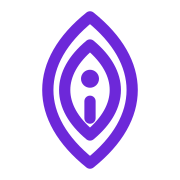
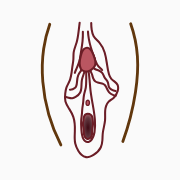
feat(web): replace the M3 vesica with an anatomical vulva mark
The M3 almond read as an abstract shape with a candle or the letter i
in the middle. The new mark is derived from "Female vulva.svg" by
T. Kebert (Wikimedia Commons, CC BY-SA 4.0), modified: cropped to the
vulva, clitoral glans enlarged, vaginal opening shaded with a radial
gradient, recoloured in oklch, strokes widened.

BrandMark.svelte draws a simplified cut below 40 px (labia, enlarged
glans, shaded opening) and a light and a dark colour set; each
instance gets its own gradient id from $props.id(). The standalone
SVG files switch colours with prefers-color-scheme. The 32 px favicon
uses the cut, the Apple touch icon the full drawing.

Every derived file, and the visual baselines that show the mark, is
CC BY-SA 4.0 with the attribution in REUSE.toml. ADR-0017 records the
decision and supersedes the M3 bullet of ADR-0015.

Changed region(s): [[0.2222, 0.0556, 0.7778, 0.9444]]

diff --git a/web/src/lib/components/BrandMark.svelte b/web/src/lib/components/BrandMark.svelte
@@ -1,6 +1,12 @@
 <!--
+SPDX-FileCopyrightText: 2024 T. Kebert
 SPDX-FileCopyrightText: 2026 lusoris <lusoris@pm.me>
-SPDX-License-Identifier: EUPL-1.2
+SPDX-License-Identifier: CC-BY-SA-4.0
+
+Derived from "Female vulva.svg" by T. Kebert, Wikimedia Commons, CC BY-SA 4.0, modified
+(https://commons.wikimedia.org/wiki/File:Female_vulva.svg): cropped to the vulva,
+clitoral glans enlarged, vaginal opening shaded, recoloured, strokes widened.
+Below 40 px it draws a simplified cut: labia, enlarged glans and shaded opening.
 -->
 <script lang="ts">
 	interface Props {
@@ -13,30 +19,206 @@ SPDX-License-Identifier: EUPL-1.2
 	}
 
 	const { size = 28, class: className = '', label }: Props = $props();
+	const uid = $props.id();
+	const small = $derived(size < 40);
 </script>
 
 <svg
 	xmlns="http://www.w3.org/2000/svg"
 	width={size}
 	height={size}
-	viewBox="0 0 32 32"
-	fill="none"
-	stroke="currentColor"
-	stroke-width="2"
-	stroke-linecap="round"
-	stroke-linejoin="round"
-	class="shrink-0 {className}"
+	viewBox="50.25 37.1 56 56"
+	class="brand-mark shrink-0 {className}"
+	data-cut={small ? '' : undefined}
 	role={label ? 'img' : undefined}
 	aria-label={label}
 	aria-hidden={label ? undefined : 'true'}
 >
-	<!-- M3: Pure Geometry (Vesica Piscis / Almond) -->
-	<!-- Outer vesica arc -->
-	<path d="M 16 3 C 6 11 6 21 16 29 C 26 21 26 11 16 3 Z" />
-	<!-- Inner concentric almond aperture -->
-	<path d="M 16 8 C 10 13 10 19 16 24 C 22 19 22 13 16 8 Z" />
-	<!-- Center focal jewel -->
-	<circle cx="16" cy="14" r="1.6" fill="currentColor" stroke="none" />
-	<!-- Lower focal ray -->
-	<path d="M 16 18 L 16 21" />
+	{#if small}
+		<defs>
+			<radialGradient id="{uid}-op" cx="50%" cy="55%" r="65%">
+				<stop offset="0" class="s0" />
+				<stop offset="0.6" class="s1" />
+				<stop offset="1" class="s2" />
+			</radialGradient>
+		</defs>
+		<path
+			class="ol c"
+			transform="translate(67.168345,-99.970111)"
+			d="M -4.5677688,139.48612 C -5.668703,142.58415 -6.4633091,145.79096 -6.9362415,149.0446 -7.5501871,153.26838 -7.6211574,157.56336 -7.2745946,161.81743 -6.5773151,170.37656 -4.1766043,178.79351 -0.25376484,186.43263"
+		/>
+		<path
+			class="ol c"
+			transform="translate(67.168345,-99.970111)"
+			d="M 26.899082,139.31695 C 28.345097,143.40073 29.230049,147.68276 29.521319,152.00519 29.835204,156.66323 29.46184,161.34672 28.760024,165.96227 27.769391,172.47725 26.123038,178.89235 23.853904,185.07922"
+		/>
+		<path
+			class="ln c"
+			transform="translate(67.168345,-99.970111)"
+			d="M 7.0622864,138.91496 C 6.9284045,140.00284 6.7956497,141.09086 6.6640225,142.17901 6.4833199,143.67287 6.3030081,145.17552 5.8734216,146.61764 5.4991673,147.87401 4.9364242,149.08278 4.7477362,150.38006 4.6119391,151.3137 4.674703,152.2642 4.6109394,153.20551 4.5495941,154.11112 4.371471,155.00411 4.2388847,155.90206 3.9525267,157.84143 3.8680556,159.84934 3.0922068,161.64968 2.738691,162.47001 2.2479665,163.2291 1.9414968,164.06814 1.6562572,164.84905 1.5377227,165.68003 1.4484425,166.5066 1.3384174,167.52523 1.2720318,168.57089 1.5350445,169.56111 1.8111195,170.60051 2.4303379,171.50864 3.0039851,172.41831 3.6241347,173.40172 4.2058417,174.4193 4.5852155,175.51828 5.2192203,177.35488 5.2626142,179.33981 5.1878176,181.28132 5.1283997,182.82365 5.0005785,184.38971 5.3466974,185.89387 5.5737021,186.88039 6.0001489,187.8127 6.5185349,188.68219 6.8654011,189.26399 7.2588847,189.82591 7.7610463,190.28049 8.263208,190.73507 8.8831753,191.07895 9.5546274,191.16818 10.065068,191.23601 10.587826,191.15503 11.075168,190.98875 11.56251,190.82248 12.017472,190.57295 12.45342,190.29891 13.62919,189.5598 14.714479,188.59457 15.296283,187.33353 15.689287,186.48171 15.834055,185.53653 15.899862,184.60073 15.965669,183.66493 15.956949,182.72375 16.063288,181.79169 16.250703,180.14899 16.792668,178.55877 16.929852,176.91111 17.033788,175.66278 16.90318,174.40491 16.985232,173.15495 17.026258,172.52997 17.121305,171.90522 17.321194,171.31165 17.521083,170.71808 17.828916,170.15513 18.261674,169.70236 18.841982,169.09521 19.617377,168.71141 20.241519,168.14942 21.012913,167.45484 21.526512,166.50679 21.821618,165.5116 21.941224,165.10825 22.027528,164.69219 22.034639,164.27154 22.04175,163.85089 21.967142,163.42422 21.778628,163.04811 21.527402,162.54688 21.092277,162.1646 20.647349,161.82345 20.202422,161.4823 19.731807,161.16396 19.36666,160.73851 18.927825,160.2272 18.665581,159.5886 18.463735,158.94574 18.028534,157.55966 17.842929,156.10992 17.636308,154.67189 17.433193,153.25826 17.206647,151.84193 16.783254,150.47799 16.359861,149.11404 15.731052,147.7964 14.796535,146.71645 14.042455,145.84502 13.092464,145.12881 12.511394,144.13363 12.077973,143.39132 11.877123,142.53669 11.74806,141.68686 11.612527,140.79443 11.549853,139.89094 11.560867,138.98834"
+		/>
+		<path
+			class="op c"
+			transform="translate(67.168345,-99.970111)"
+			d="M 8.5810122,176.2458 C 8.5661477,176.45219 8.5780337,176.66027 8.5535382,176.86574 8.5271359,177.0872 8.4590116,177.30131 8.4139676,177.51974 8.3311912,177.92115 8.3268986,178.3356 8.3629576,178.74387 8.408745,179.26228 8.5187052,179.77294 8.5793545,180.28983 8.6606813,180.98294 8.6531928,181.68583 8.7684815,182.37411 8.8255277,182.71468 8.914345,183.0548 9.0861111,183.35436 9.2578772,183.65392 9.5200881,183.91164 9.845978,184.02582 10.203779,184.15118 10.613384,184.09049 10.940992,183.89968 11.2686,183.70886 11.516604,183.39724 11.667679,183.04952 11.926164,182.45457 11.908926,181.78271 11.935026,181.13456 11.955252,180.63228 12.004159,180.13116 12.081571,179.63447 12.142425,179.24402 12.221001,178.85524 12.244141,178.46075 12.271311,177.99757 12.221669,177.53383 12.182991,177.07146 12.14867,176.66118 12.122661,176.24824 12.03126,175.8468 11.980597,175.62428 11.909531,175.40524 11.803,175.20342 11.69647,175.0016 11.553452,174.81701 11.372807,174.67755 11.041107,174.42148 10.605162,174.33434 10.186194,174.34226 9.9015227,174.34764 9.6075847,174.39727 9.3717912,174.55686 9.1445067,174.71069 8.9919299,174.95236 8.8735016,175.19994 8.7163761,175.52842 8.6071696,175.88262 8.5810122,176.2458 Z"
+			fill="url(#{uid}-op)"
+		/>
+		<g transform="translate(77.3 53.300000000000004) scale(2.4) translate(-77.3 -53.7)">
+			<path
+				class="gl c"
+				transform="translate(67.168345,-99.970111)"
+				d="M 8.7007852,155.72423 C 8.5228997,155.3155 8.4278158,154.87094 8.4229462,154.4252 8.4168729,153.86929 8.5489182,153.32209 8.6844638,152.78292 8.7493356,152.52488 8.8155741,152.26596 8.9187864,152.02072 9.0219987,151.77548 9.1643273,151.54264 9.3623056,151.36488 9.5501631,151.1962 9.7954329,151.07924 10.047695,151.08953 10.275761,151.09883 10.490883,151.2112 10.65886,151.36575 10.826837,151.52029 10.952478,151.71506 11.063368,151.91457 11.315068,152.36742 11.49979,152.85489 11.649253,153.35096 11.736415,153.64025 11.812264,153.93544 11.829399,154.23709 11.846534,154.53874 11.802087,154.84938 11.660083,155.11607 11.506252,155.40497 11.249236,155.62448 10.982963,155.81481 10.776538,155.96236 10.557886,156.09829 10.316132,156.17535 10.034218,156.26521 9.7260204,156.2708 9.4410354,156.19121 9.1560505,156.11162 8.8953428,155.94716 8.7007822,155.72423 Z"
+			/>
+		</g>
+	{:else}
+		<defs>
+			<radialGradient id="{uid}-op" cx="50%" cy="55%" r="65%">
+				<stop offset="0" class="s0" />
+				<stop offset="0.6" class="s1" />
+				<stop offset="1" class="s2" />
+			</radialGradient>
+		</defs>
+		<path
+			class="ol"
+			transform="translate(67.168345,-99.970111)"
+			d="M -4.5677688,139.48612 C -5.668703,142.58415 -6.4633091,145.79096 -6.9362415,149.0446 -7.5501871,153.26838 -7.6211574,157.56336 -7.2745946,161.81743 -6.5773151,170.37656 -4.1766043,178.79351 -0.25376484,186.43263"
+		/>
+		<path
+			class="ol"
+			transform="translate(67.168345,-99.970111)"
+			d="M 26.899082,139.31695 C 28.345097,143.40073 29.230049,147.68276 29.521319,152.00519 29.835204,156.66323 29.46184,161.34672 28.760024,165.96227 27.769391,172.47725 26.123038,178.89235 23.853904,185.07922"
+		/>
+		<path
+			class="ln"
+			transform="translate(67.168345,-99.970111)"
+			d="M 7.0622864,138.91496 C 6.9284045,140.00284 6.7956497,141.09086 6.6640225,142.17901 6.4833199,143.67287 6.3030081,145.17552 5.8734216,146.61764 5.4991673,147.87401 4.9364242,149.08278 4.7477362,150.38006 4.6119391,151.3137 4.674703,152.2642 4.6109394,153.20551 4.5495941,154.11112 4.371471,155.00411 4.2388847,155.90206 3.9525267,157.84143 3.8680556,159.84934 3.0922068,161.64968 2.738691,162.47001 2.2479665,163.2291 1.9414968,164.06814 1.6562572,164.84905 1.5377227,165.68003 1.4484425,166.5066 1.3384174,167.52523 1.2720318,168.57089 1.5350445,169.56111 1.8111195,170.60051 2.4303379,171.50864 3.0039851,172.41831 3.6241347,173.40172 4.2058417,174.4193 4.5852155,175.51828 5.2192203,177.35488 5.2626142,179.33981 5.1878176,181.28132 5.1283997,182.82365 5.0005785,184.38971 5.3466974,185.89387 5.5737021,186.88039 6.0001489,187.8127 6.5185349,188.68219 6.8654011,189.26399 7.2588847,189.82591 7.7610463,190.28049 8.263208,190.73507 8.8831753,191.07895 9.5546274,191.16818 10.065068,191.23601 10.587826,191.15503 11.075168,190.98875 11.56251,190.82248 12.017472,190.57295 12.45342,190.29891 13.62919,189.5598 14.714479,188.59457 15.296283,187.33353 15.689287,186.48171 15.834055,185.53653 15.899862,184.60073 15.965669,183.66493 15.956949,182.72375 16.063288,181.79169 16.250703,180.14899 16.792668,178.55877 16.929852,176.91111 17.033788,175.66278 16.90318,174.40491 16.985232,173.15495 17.026258,172.52997 17.121305,171.90522 17.321194,171.31165 17.521083,170.71808 17.828916,170.15513 18.261674,169.70236 18.841982,169.09521 19.617377,168.71141 20.241519,168.14942 21.012913,167.45484 21.526512,166.50679 21.821618,165.5116 21.941224,165.10825 22.027528,164.69219 22.034639,164.27154 22.04175,163.85089 21.967142,163.42422 21.778628,163.04811 21.527402,162.54688 21.092277,162.1646 20.647349,161.82345 20.202422,161.4823 19.731807,161.16396 19.36666,160.73851 18.927825,160.2272 18.665581,159.5886 18.463735,158.94574 18.028534,157.55966 17.842929,156.10992 17.636308,154.67189 17.433193,153.25826 17.206647,151.84193 16.783254,150.47799 16.359861,149.11404 15.731052,147.7964 14.796535,146.71645 14.042455,145.84502 13.092464,145.12881 12.511394,144.13363 12.077973,143.39132 11.877123,142.53669 11.74806,141.68686 11.612527,140.79443 11.549853,139.89094 11.560867,138.98834"
+		/>
+		<path
+			class="ln"
+			transform="translate(67.168345,-99.970111)"
+			d="M 10.316155,156.17535 C 10.581066,157.91265 10.788716,159.65868 10.938654,161.40965 11.041414,162.60967 11.117096,163.81222 11.248016,165.0095 11.445391,166.81451 11.767815,168.60319 12.086647,170.39075 12.45992,172.48354 12.829157,174.58142 12.986765,176.70139 13.10364,178.27346 13.102968,179.86202 12.845007,181.41718 12.648187,182.60375 12.272644,183.81653 11.427784,184.67262 11.252424,184.85031 11.057568,185.01108 10.837563,185.12908 10.617559,185.24707 10.371133,185.32125 10.121483,185.32105 9.7612842,185.32076 9.4123163,185.1645 9.1364562,184.93289 8.8605961,184.70127 8.6523918,184.39825 8.4856091,184.07899 7.9162744,182.98915 7.8123781,181.72391 7.7278334,180.49723 7.6452594,179.29915 7.5708918,178.09622 7.6549544,176.89824 7.7172567,176.01037 7.8662491,175.13071 7.9451512,174.24416 8.0026583,173.598 8.0228874,172.94867 8.0939184,172.30386 8.1719143,171.59582 8.3108842,170.89578 8.3976127,170.18876 8.524265,169.15628 8.5394673,168.10957 8.7313359,167.0872 8.9210924,166.07608 9.2813609,165.10184 9.4509316,164.08714 9.5962294,163.21769 9.5993905,162.33166 9.6099856,161.45022 9.6230199,160.36585 9.6478548,159.28078 9.6001556,158.19738 9.5709828,157.53478 9.5146796,156.87337 9.4314344,156.21537"
+		/>
+		<path
+			class="ln"
+			transform="translate(67.168345,-99.970111)"
+			d="M 5.1758083,158.39949 C 5.3443085,157.92861 5.5277054,157.46307 5.7256324,157.00378 5.894432,156.61208 6.0738028,156.22493 6.2361712,155.83052 6.6621262,154.79584 6.9690891,153.71627 7.3660649,152.67013 7.6207752,151.9989 7.9211037,151.32826 8.4078537,150.80053 8.7143261,150.46825 9.0929087,150.19871 9.5171671,150.04271 9.8779758,149.91004 10.27128,149.86093 10.651586,149.91708 11.031891,149.97323 11.398064,150.13642 11.683513,150.39392 12.079686,150.7513 12.298788,151.26063 12.488556,151.75929 12.764594,152.48464 13.003712,153.22376 13.287389,153.94616 13.565671,154.65482 13.894683,155.35909 14.408047,155.92131 14.665748,156.20354 14.9649,156.44432 15.241817,156.70772 15.444318,156.90034 15.63511,157.10526 15.812788,157.32099"
+		/>
+		<path
+			class="ln"
+			transform="translate(67.168345,-99.970111)"
+			d="M 10.295285,142.35739 C 10.349462,143.3077 10.459595,144.25481 10.624924,145.19219 10.824571,146.32415 11.104424,147.44076 11.422396,148.54533 11.857848,150.058 12.365215,151.54997 12.942211,153.01451"
+		/>
+		<path
+			class="ln"
+			transform="translate(67.168345,-99.970111)"
+			d="M 8.3075949,142.44202 C 8.3427572,143.69008 8.2976493,144.9404 8.1726425,146.18268 8.061175,147.29041 7.8863893,148.39067 7.7123543,149.49031 7.5043948,150.8043 7.2973724,152.11844 7.0912873,153.43273"
+		/>
+		<path
+			class="ln"
+			transform="translate(67.168345,-99.970111)"
+			d="M 8.7007852,155.72423 C 8.50331,156.18313 8.2650445,156.62447 7.9897171,157.04134 7.4807576,157.81195 6.8407374,158.50778 6.4830311,159.35921 6.1225144,160.21733 6.0757206,161.16901 6.0107792,162.09751 5.9729612,162.63822 5.9222168,163.19636 5.6636412,163.67273 5.5374417,163.90523 5.3646956,164.11097 5.166266,164.28592 4.6492128,164.74179 3.9494699,164.98426 3.2612123,164.94605"
+		/>
+		<path
+			class="ln"
+			transform="translate(67.168345,-99.970111)"
+			d="M 9.4314391,156.21536 C 9.2700717,156.89706 9.0763136,157.5711 8.8510371,158.23443 8.5115143,159.23416 8.0984106,160.21717 7.9212891,161.25802 7.7504735,162.26181 7.8044612,163.28969 7.7089592,164.30343 7.6530324,164.89708 7.5422769,165.49612 7.267626,166.02538 6.8842571,166.76414 6.2100716,167.31177 5.4944762,167.73682 5.0954963,167.97381 4.6676213,168.18288 4.2069553,168.23886 3.7131683,168.29887 3.2168379,168.17947 2.7356537,168.05342 2.2745157,167.93262 1.8152011,167.80486 1.3579192,167.6702"
+		/>
+		<path
+			class="ln"
+			transform="translate(67.168345,-99.970111)"
+			d="M 10.316135,156.17535 C 11.019155,157.01631 11.553472,157.99772 11.878262,159.0446 12.022593,159.50982 12.126142,159.98797 12.296304,160.44437 12.466467,160.90078 12.711119,161.34281 13.085442,161.65448 13.385616,161.90441 13.754891,162.05859 14.131121,162.16358 14.507351,162.26856 14.894611,162.32764 15.276583,162.4093 15.580601,162.4743 15.883001,162.55419 16.167577,162.67936 16.452153,162.80453 16.719517,162.97677 16.927835,163.20754 17.121182,163.42173 17.258567,163.6798 17.384289,163.93952 17.724471,164.64227 18.003061,165.39277 18.519068,165.9787 18.910744,166.42345 19.423179,166.751 19.969664,166.98028 20.297992,167.11803 20.640412,167.22217 20.989841,167.29054"
+		/>
+		<path
+			class="ln"
+			transform="translate(67.168345,-99.970111)"
+			d="M 11.372855,155.49982 C 11.777489,156.08495 12.328235,156.56821 12.960996,156.89336 13.443766,157.14143 13.967888,157.29667 14.4706,157.50134 14.973311,157.706 15.468649,157.971 15.817854,158.38653 16.252732,158.904 16.413718,159.59422 16.750645,160.1802 16.951297,160.52917 17.212848,160.83839 17.457892,161.15776 17.702936,161.47713 17.935544,161.81401 18.065691,162.19494 18.245869,162.7223 18.220606,163.30752 18.435092,163.82188 18.588115,164.18885 18.857948,164.50051 19.177847,164.73661 19.497746,164.97272 19.866617,165.13631 20.246604,165.25332 20.49911,165.33107 20.757714,165.38901 21.019257,165.42643"
+		/>
+		<path
+			class="op"
+			transform="translate(67.168345,-99.970111)"
+			d="M 8.5810122,176.2458 C 8.5661477,176.45219 8.5780337,176.66027 8.5535382,176.86574 8.5271359,177.0872 8.4590116,177.30131 8.4139676,177.51974 8.3311912,177.92115 8.3268986,178.3356 8.3629576,178.74387 8.408745,179.26228 8.5187052,179.77294 8.5793545,180.28983 8.6606813,180.98294 8.6531928,181.68583 8.7684815,182.37411 8.8255277,182.71468 8.914345,183.0548 9.0861111,183.35436 9.2578772,183.65392 9.5200881,183.91164 9.845978,184.02582 10.203779,184.15118 10.613384,184.09049 10.940992,183.89968 11.2686,183.70886 11.516604,183.39724 11.667679,183.04952 11.926164,182.45457 11.908926,181.78271 11.935026,181.13456 11.955252,180.63228 12.004159,180.13116 12.081571,179.63447 12.142425,179.24402 12.221001,178.85524 12.244141,178.46075 12.271311,177.99757 12.221669,177.53383 12.182991,177.07146 12.14867,176.66118 12.122661,176.24824 12.03126,175.8468 11.980597,175.62428 11.909531,175.40524 11.803,175.20342 11.69647,175.0016 11.553452,174.81701 11.372807,174.67755 11.041107,174.42148 10.605162,174.33434 10.186194,174.34226 9.9015227,174.34764 9.6075847,174.39727 9.3717912,174.55686 9.1445067,174.71069 8.9919299,174.95236 8.8735016,175.19994 8.7163761,175.52842 8.6071696,175.88262 8.5810122,176.2458 Z"
+			fill="url(#{uid}-op)"
+		/>
+		<path
+			class="ur"
+			d="M 77.236262,69.105174 C 77.151366,69.127506 77.073291,69.172951 77.008416,69.232089 76.94354,69.291226 76.891601,69.363795 76.851884,69.44208 76.772449,69.598651 76.742153,69.775276 76.72381,69.949884 76.697486,70.200468 76.695523,70.46292 76.797327,70.693401 76.848228,70.808641 76.925248,70.913624 77.02638,70.988748 77.127512,71.063872 77.253438,71.107778 77.379277,71.101794 77.479235,71.097041 77.576682,71.061183 77.659474,71.004975 77.742267,70.948766 77.8107,70.872719 77.863302,70.787589 77.968506,70.617328 78.009649,70.415197 78.028792,70.215974 78.05442,69.949257 78.040532,69.666932 77.907366,69.434421 77.840783,69.318165 77.744496,69.217386 77.625862,69.155138 77.507229,69.09289 77.365827,69.071092 77.236262,69.105174 Z"
+		/>
+		<g transform="translate(77.3 53.300000000000004) scale(1.8) translate(-77.3 -53.7)">
+			<path
+				class="gl"
+				transform="translate(67.168345,-99.970111)"
+				d="M 8.7007852,155.72423 C 8.5228997,155.3155 8.4278158,154.87094 8.4229462,154.4252 8.4168729,153.86929 8.5489182,153.32209 8.6844638,152.78292 8.7493356,152.52488 8.8155741,152.26596 8.9187864,152.02072 9.0219987,151.77548 9.1643273,151.54264 9.3623056,151.36488 9.5501631,151.1962 9.7954329,151.07924 10.047695,151.08953 10.275761,151.09883 10.490883,151.2112 10.65886,151.36575 10.826837,151.52029 10.952478,151.71506 11.063368,151.91457 11.315068,152.36742 11.49979,152.85489 11.649253,153.35096 11.736415,153.64025 11.812264,153.93544 11.829399,154.23709 11.846534,154.53874 11.802087,154.84938 11.660083,155.11607 11.506252,155.40497 11.249236,155.62448 10.982963,155.81481 10.776538,155.96236 10.557886,156.09829 10.316132,156.17535 10.034218,156.26521 9.7260204,156.2708 9.4410354,156.19121 9.1560505,156.11162 8.8953428,155.94716 8.7007822,155.72423 Z"
+			/>
+		</g>
+	{/if}
 </svg>
+
+<style>
+	.brand-mark {
+		--o: oklch(0.36 0.11 18);
+		--b: oklch(0.38 0.08 60);
+		--p: oklch(0.58 0.13 15);
+		--s: oklch(0.24 0.08 15);
+	}
+	:global(html.dark) .brand-mark {
+		--o: oklch(0.82 0.08 15);
+		--b: oklch(0.78 0.06 60);
+		--p: oklch(0.7 0.13 10);
+		--s: oklch(0.2 0.07 15);
+	}
+	.brand-mark .ol,
+	.brand-mark .ln,
+	.brand-mark .op,
+	.brand-mark .ur,
+	.brand-mark .gl {
+		stroke-linecap: round;
+		stroke-linejoin: round;
+	}
+	.brand-mark .ol {
+		fill: none;
+		stroke: var(--b);
+		stroke-width: 1.1;
+	}
+	.brand-mark .ln {
+		fill: none;
+		stroke: var(--o);
+		stroke-width: 0.8;
+	}
+	.brand-mark .op {
+		stroke: var(--o);
+		stroke-width: 0.8;
+	}
+	.brand-mark .ur {
+		fill: var(--p);
+		stroke: var(--o);
+		stroke-width: 0.5;
+	}
+	.brand-mark .gl {
+		fill: var(--p);
+		stroke: var(--o);
+		stroke-width: 0.45;
+	}
+	.brand-mark .ol.c {
+		stroke-width: 4;
+	}
+	.brand-mark .ln.c {
+		stroke-width: 3.2;
+	}
+	.brand-mark .op.c {
+		stroke-width: 2;
+	}
+	.brand-mark .gl.c {
+		stroke-width: 0.5;
+	}
+	.brand-mark .s0 {
+		stop-color: var(--s);
+	}
+	.brand-mark .s1 {
+		stop-color: var(--s);
+		stop-opacity: 0.8;
+	}
+	.brand-mark .s2 {
+		stop-color: var(--p);
+		stop-opacity: 0.75;
+	}
+</style>

diff --git a/web/src/lib/components/BrandMark.svelte.test.ts b/web/src/lib/components/BrandMark.svelte.test.ts
@@ -28,4 +28,33 @@ describe('BrandMark', () => {
 		expect(svg?.getAttribute('width')).toBe('24');
 		expect(svg?.getAttribute('height')).toBe('24');
 	});
+
+	it('draws every part at full size: labia, hood, glans, urethra, shaded opening', () => {
+		const { container } = render(BrandMark, { props: { size: 40 } });
+		const svg = container.querySelector('svg');
+		expect(svg?.hasAttribute('data-cut')).toBe(false);
+		for (const part of ['ol', 'ln', 'gl', 'ur', 'op']) {
+			expect(container.querySelector(`.${part}`), part).toBeTruthy();
+		}
+	});
+
+	it('switches to the simplified cut below 40 px, without the urethra or the hood folds', () => {
+		const { container } = render(BrandMark, { props: { size: 39 } });
+		expect(container.querySelector('svg')?.hasAttribute('data-cut')).toBe(true);
+		expect(container.querySelector('.ur')).toBeNull();
+		expect(container.querySelectorAll('.ln')).toHaveLength(1);
+		expect(container.querySelector('.gl')).toBeTruthy();
+		expect(container.querySelector('.op')).toBeTruthy();
+	});
+
+	it('gives each instance its own gradient id, so two marks never share one fill', () => {
+		const { container } = render(BrandMark, { props: { size: 56 } });
+		const { container: other } = render(BrandMark, { props: { size: 24 } });
+		const ids = [container, other].map((c) => c.querySelector('radialGradient')?.id);
+		expect(ids[0]).toBeTruthy();
+		expect(ids[0]).not.toBe(ids[1]);
+		for (const [i, c] of [container, other].entries()) {
+			expect(c.querySelector('.op')?.getAttribute('fill')).toBe(`url(#${ids[i]})`);
+		}
+	});
 });

diff --git a/docs/adr/0017-anatomical-brand-mark.md b/docs/adr/0017-anatomical-brand-mark.md
@@ -1,0 +1,29 @@
+<!-- markdownlint-disable MD013 -->
+<!--
+SPDX-FileCopyrightText: 2026 lusoris <lusoris@pm.me>
+SPDX-License-Identifier: CC-BY-SA-4.0
+-->
+
+# ADR-0017: An anatomical vulva mark replaces the M3 vesica
+
+- Status: accepted
+- Date: 2026-10-20
+- Milestone: [UI and design](https://github.com/lusoris/SnatchArr/milestone/11)
+- Supersedes: the M3 mark bullet of ADR-0015 section 2, and "the M3 mark" in ADR-0016
+
+## Context
+
+The M3 mark of ADR-0015 is a vesica (an almond shape) with a dot and a short bar in its centre. The project owner asked for a mark that reads as a vulva at first sight; the M3 almond reads as an abstract shape with a candle or the letter i in the middle. Three drawn rounds were rejected, and the owner chose a published anatomical drawing as the base.
+
+## Decision
+
+- Base: "Female vulva.svg" by T. Kebert, [Wikimedia Commons](https://commons.wikimedia.org/wiki/File:Female_vulva.svg), CC BY-SA 4.0 (uploaded 2024-02-23).
+- Changes: cropped to the vulva (pubic hair, thighs, perineum, anus and buttock lines removed); clitoral glans enlarged 1.8 times (2.4 times in the small cut); vaginal opening filled with a radial gradient from shadow to pink; outline, labia and fill recoloured in oklch; strokes widened for icon sizes.
+- Small sizes: below 40 px `BrandMark.svelte` draws a simplified cut (outer and inner labia, enlarged glans, shaded opening) with thicker strokes. The 32 px favicon PNG uses the cut, the 180 px Apple touch icon the full drawing.
+- Colour: the mark no longer follows `currentColor`. It carries a light set and a dark set (`html.dark` in the SPA, `prefers-color-scheme` in the standalone SVG files), so it stays visible on the dark navigation that #443 fixed.
+- Licence: every file derived from the base is CC BY-SA 4.0 with the attribution "T. Kebert, Wikimedia Commons, CC BY-SA 4.0, modified", declared in `REUSE.toml` and checked by `reuse lint`. The visual baselines show the mark and carry the same licence.
+
+## Consequences
+
+- **Positive**: The mark says what the name means, at every size from 16 px up; the credit and licence are machine-checked.
+- **Negative**: The mark files are share-alike (CC BY-SA 4.0), unlike the EUPL-1.2 code; anyone who adapts the mark must keep that licence and the credit. The mark is two-tone and no longer a single `currentColor` glyph.

diff --git a/docs/adr/README.md b/docs/adr/README.md
@@ -20,5 +20,6 @@ This directory documents key architectural decisions following the HISS-14 immut
 | [0012](0012-queue-management-replaces-cleanuparr-link.md) | 2026-10-17 | SnatchArr manages the download queue; the Cleanuparr link goes | Accepted |
 | [0013](0013-force-import-id-matched-releases.md) | 2026-10-18 | SnatchArr force-imports ID-matched releases and owns the queue alone | Accepted; amended by 0014 |
 | [0014](0014-shadow-parity-week-for-id-matched.md) | 2026-10-18 | The id_matched parity week runs in shadow beside the live unblocker | Accepted |
-| [0015](0015-ui-design-system-and-layout.md) | 2026-10-19 | SnatchArr's own UI: palette A, the M3 mark, a task-flow navigation and a UI that never blocks | Accepted |
+| [0015](0015-ui-design-system-and-layout.md) | 2026-10-19 | SnatchArr's own UI: palette A, the M3 mark, a task-flow navigation and a UI that never blocks | Accepted; mark superseded by 0017 |
 | [0016](0016-ui-layout-and-page-redo.md) | 2026-10-20 | Modern operations layout: collapsible navigation, unified page headers, mobile bottom bar and dialog sheets | Accepted |
+| [0017](0017-anatomical-brand-mark.md) | 2026-10-20 | An anatomical vulva mark replaces the M3 vesica | Accepted |

diff --git a/docs/adr/0016-ui-layout-and-page-redo.md b/docs/adr/0016-ui-layout-and-page-redo.md
@@ -170,7 +170,7 @@ Every file under `web/src/routes` and `web/src/lib/components` is classified:
 | `web/src/lib/components/shell/NavIcon.svelte` | kept | Dynamic Lucide icon renderer. |
 | `web/src/lib/components/shell/nav.ts` | kept | Navigation hierarchy definition and active route matcher. |
 | `web/src/lib/components/shell/icons.ts` | modified | Added required icons (`ellipsis`, `command`, `plus`, `check`, `circle-alert`, `activity`). |
-| `web/src/lib/components/BrandMark.svelte` | kept | M3 vesica brand mark renderer. |
+| `web/src/lib/components/BrandMark.svelte` | kept | Brand mark renderer; the mark itself is ADR-0017. |
 | `web/src/lib/components/CheckState.svelte` | kept | State indicator for instance connectivity. |
 | `web/src/lib/components/ConfirmAction.svelte` | kept | Inline 2-step action confirmation wrapper. |
 | `web/src/lib/components/ConfirmDelete.svelte` | kept | In-place delete confirmation button. |

diff --git a/README.md b/README.md
@@ -47,6 +47,8 @@ If you already run [Configarr](https://github.com/raydak-labs/configarr), point 
 
 Code: [EUPL-1.2](LICENSES/EUPL-1.2.txt). Documentation: [CC BY-SA 4.0](LICENSES/CC-BY-SA-4.0.txt). REUSE-compliant.
 
+The brand mark is derived from ["Female vulva.svg"](https://commons.wikimedia.org/wiki/File:Female_vulva.svg) by T. Kebert, Wikimedia Commons, [CC BY-SA 4.0](LICENSES/CC-BY-SA-4.0.txt), modified: cropped to the vulva, clitoral glans enlarged, vaginal opening shaded, recoloured ([ADR-0017](docs/adr/0017-anatomical-brand-mark.md)).
+
 <!-- praetor:readme-governance:start -->
 [![HISS Adopted][praetor-hiss-badge]][praetor-hiss-agents]
 
